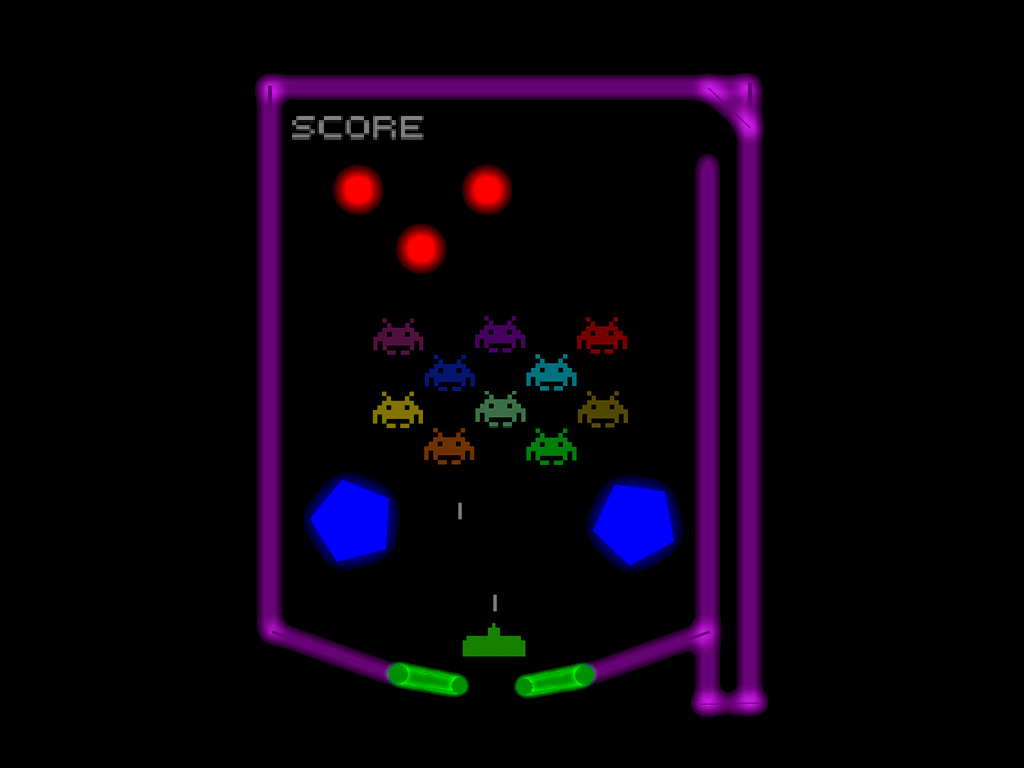
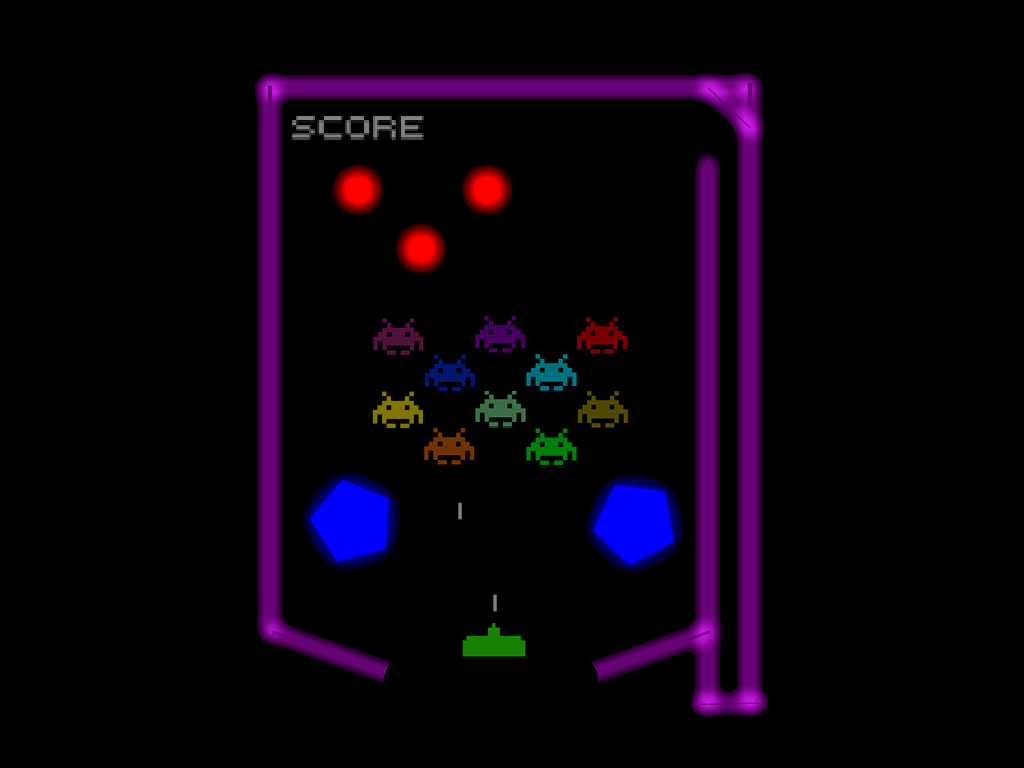
Added

Changed region(s): [[0.5, 0.8438, 0.5938, 0.9062], [0.375, 0.8438, 0.4688, 0.9062]]

diff --git a/Project/ModulePhysics.cpp b/Project/ModulePhysics.cpp
@@ -144,27 +144,72 @@ PhysBody* ModulePhysics::CreateChain(int x, int y, int* points, int size, b2Body
 	b2ChainShape shape;
 	b2Vec2* p = new b2Vec2[size / 2];
 
-	for(uint i = 0; i < size / 2; ++i)
+	for (uint i = 0; i < size / 2; ++i)
 	{
 		p[i].x = PIXEL_TO_METERS(points[i * 2 + 0]);
 		p[i].y = PIXEL_TO_METERS(points[i * 2 + 1]);
 	}
 
-	shape.CreateLoop(p, size / 2);
+}
 
-	b2FixtureDef fixture;
-	fixture.shape = &shape;
+b2RevoluteJoint* ModulePhysics::CreateRevoluteJoint(PhysBody* bodyB, int* vects, int size, int posx, int posy, int desplacementx, int desplacementy, int upper_angle, int lower_angle, int max_torque, int speed, uint16 mask, uint16 category)
+{
+	//body and fixture defs - the common parts
+	b2BodyDef bodyDef;
+	b2FixtureDef fixtureDef;
+	fixtureDef.density = 1;
+	fixtureDef.filter.maskBits = mask;
+	fixtureDef.filter.categoryBits = category;
 
-	b->CreateFixture(&fixture);
+	//two shapes
+	b2PolygonShape poligonShape;
 
-	delete p;
+	b2Vec2* vect = new b2Vec2[size / 2];
+	for (uint i = 0; i < size / 2; ++i)
+	{
+		vect[i].x = PIXEL_TO_METERS(vects[i * 2 + 0]);
+		vect[i].y = PIXEL_TO_METERS(vects[i * 2 + 1]);
+	}
 
-	PhysBody* pbody = new PhysBody();
-	pbody->body = b;
-	b->SetUserData(pbody);
-	pbody->width = pbody->height = 0;
+	poligonShape.Set(vect, size / 2);
 
-	return pbody;
+	//make a box
+	bodyDef.position.Set(PIXEL_TO_METERS(posx), PIXEL_TO_METERS(posy));
+	fixtureDef.shape = &poligonShape;
+	bodyDef.type = b2_dynamicBody;
+	b2Body* m_bodyA = world->CreateBody(&bodyDef);
+	m_bodyA->CreateFixture(&fixtureDef);
+
+
+	b2RevoluteJointDef revoluteJointDef;
+	revoluteJointDef.bodyA = m_bodyA;
+	revoluteJointDef.bodyB = bodyB->body;
+	revoluteJointDef.collideConnected = false;
+	revoluteJointDef.type = e_revoluteJoint;
+	revoluteJointDef.localAnchorA.Set(PIXEL_TO_METERS(desplacementx), PIXEL_TO_METERS(desplacementy));
+
+	if (lower_angle != NULL && upper_angle != NULL)
+	{
+		revoluteJointDef.enableLimit = true;
+		revoluteJointDef.lowerAngle = lower_angle * DEGTORAD;
+		revoluteJointDef.upperAngle = upper_angle * DEGTORAD;
+	}
+	else
+		revoluteJointDef.enableLimit = false;
+
+	if (max_torque != 0)
+	{
+		revoluteJointDef.enableMotor = true;
+		revoluteJointDef.maxMotorTorque = max_torque;
+		revoluteJointDef.motorSpeed = speed * DEGTORAD; //90 degrees per second
+	}
+	else
+		revoluteJointDef.enableMotor = false;
+
+
+	b2RevoluteJoint* m_joint = (b2RevoluteJoint*)world->CreateJoint(&revoluteJointDef);
+
+	return m_joint;
 }
 
 // 

diff --git a/Project/ModuleSceneIntro.cpp b/Project/ModuleSceneIntro.cpp
@@ -116,42 +116,6 @@ update_status ModuleSceneIntro::Update()
 	if(App->input->GetKey(SDL_SCANCODE_3) == KEY_DOWN)
 	{
 		// Pivot 0, 0
-		int rick_head[64] = {
-			14, 36,
-			42, 40,
-			40, 0,
-			75, 30,
-			88, 4,
-			94, 39,
-			111, 36,
-			104, 58,
-			107, 62,
-			117, 67,
-			109, 73,
-			110, 85,
-			106, 91,
-			109, 99,
-			103, 104,
-			100, 115,
-			106, 121,
-			103, 125,
-			98, 126,
-			95, 137,
-			83, 147,
-			67, 147,
-			53, 140,
-			46, 132,
-			34, 136,
-			38, 126,
-			23, 123,
-			30, 114,
-			10, 102,
-			29, 90,
-			0, 75,
-			30, 62
-		};
-
-		//ricks.add(App->physics->CreateChain(App->input->GetMouseX(), App->input->GetMouseY(), rick_head, 64));
 	}
 
 	// Prepare for raycast ------------------------------------------------------
@@ -219,9 +183,13 @@ update_status ModuleSceneIntro::Update()
 
 void ModuleSceneIntro::OnCollision(PhysBody* bodyA, PhysBody* bodyB)
 {
-	int x, y;
 
-	App->audio->PlayFx(bonus_fx);
+	int x, y;
+	if (bodyA != NULL && bodyB != NULL)
+	{
+		App->renderer->DrawLine(ray.x, ray.y, ray.x, ray.y, 255, 255, 255);
+	}
+	//App->audio->PlayFx(bonus_fx);
 
 	/*
 	if(bodyA)

diff --git a/Project/ModulePhysics.h b/Project/ModulePhysics.h
@@ -46,6 +46,7 @@ public:
 	PhysBody* CreateRectangle(int x, int y, int width, int height);
 	PhysBody* CreateRectangleSensor(int x, int y, int width, int height);
 	PhysBody* CreateChain(int x, int y, int* points, int size, b2BodyType type);
+	b2RevoluteJoint* CreateRevoluteJoint(PhysBody* bodyB, int* vects, int size, int posx, int posy, int desplacementx, int desplacementy, int upper_angle, int lower_angle, int max_torque, int speed, uint16 mask, uint16 category);
 
 	// b2ContactListener ---
 	void BeginContact(b2Contact* contact);
